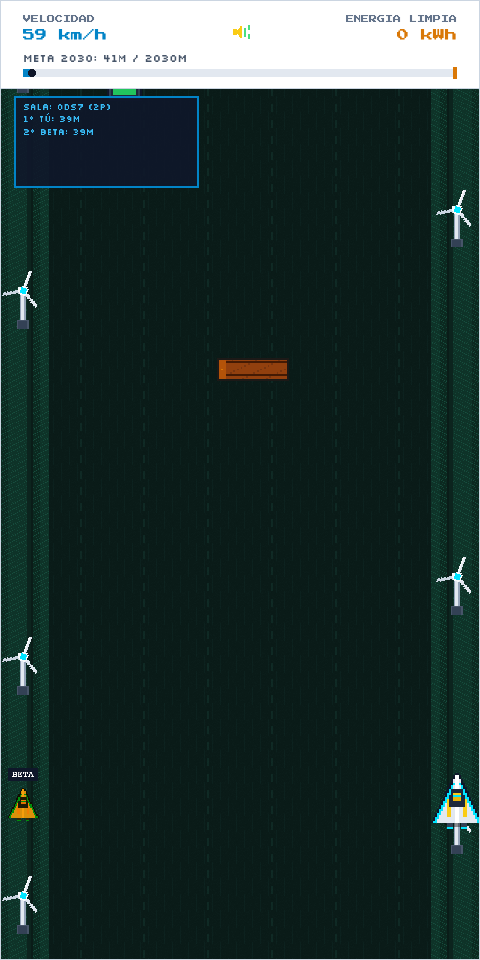
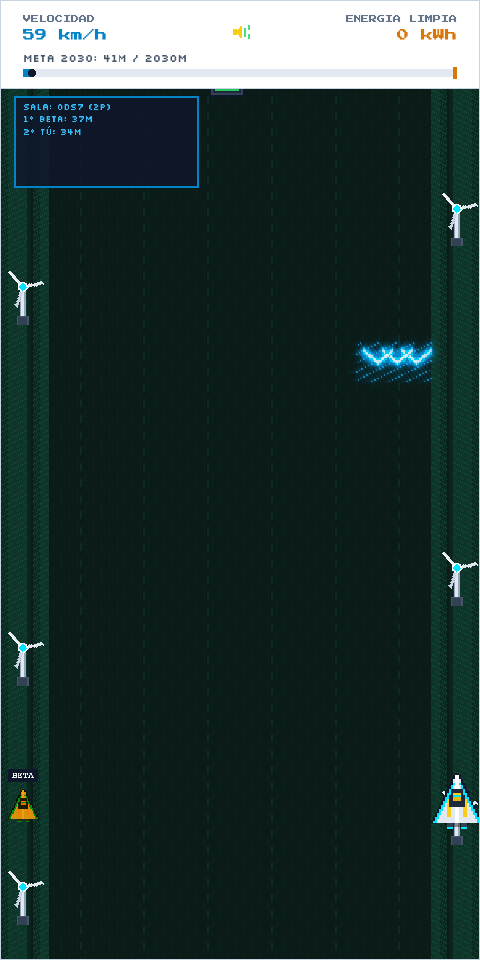
fix(lobby): update room capacity label to 50 players and handle participant list overflow

diff --git a/src/scenes/CatcherScene.ts b/src/scenes/CatcherScene.ts
@@ -14,6 +14,7 @@ export class CatcherScene extends Scene {
     private cursors!: Types.Input.Keyboard.CursorKeys;
     private keyA?: Phaser.Input.Keyboard.Key;
     private keyD?: Phaser.Input.Keyboard.Key;
+    private touchSteer: number = 0;
 
     private cleanGroup!: Phaser.Physics.Arcade.Group;
     private hazardGroup!: Phaser.Physics.Arcade.Group;
@@ -106,12 +107,28 @@ export class CatcherScene extends Scene {
             paused: this.showGuide
         });
 
-        // ── 5. Controls Input ──
+        // ── 5. Controls Input (Keyboard + Direct Touch/Click) ──
         if (this.input.keyboard) {
             this.cursors = this.input.keyboard.createCursorKeys();
             this.keyA = this.input.keyboard.addKey(Phaser.Input.Keyboard.KeyCodes.A);
             this.keyD = this.input.keyboard.addKey(Phaser.Input.Keyboard.KeyCodes.D);
         }
+
+        this.input.on('pointerdown', (pointer: Phaser.Input.Pointer) => {
+            if (!this.isGameActive) return;
+            const { width } = this.scale;
+            this.touchSteer = pointer.x < width / 2 ? -1 : 1;
+        });
+
+        this.input.on('pointermove', (pointer: Phaser.Input.Pointer) => {
+            if (!this.isGameActive || !pointer.isDown) return;
+            const { width } = this.scale;
+            this.touchSteer = pointer.x < width / 2 ? -1 : 1;
+        });
+
+        this.input.on('pointerup', () => {
+            this.touchSteer = 0;
+        });
 
         // ── 6. HUD Dashboard (Set to Depth 100 so items fall behind it) ──
         this.createHud(width);
@@ -444,8 +461,12 @@ export class CatcherScene extends Scene {
         });
 
         // Movement Controls
-        const left = (this.cursors && this.cursors.left.isDown) || (this.keyA && this.keyA.isDown) || (touch && touch.left);
-        const right = (this.cursors && this.cursors.right.isDown) || (this.keyD && this.keyD.isDown) || (touch && touch.right);
+        const activePtr = this.input.activePointer;
+        const ptrLeft = (activePtr && activePtr.isDown) && activePtr.x < width / 2;
+        const ptrRight = (activePtr && activePtr.isDown) && activePtr.x >= width / 2;
+
+        const left = (this.cursors && this.cursors.left.isDown) || (this.keyA && this.keyA.isDown) || (this.touchSteer < 0) || ptrLeft || (touch && touch.left);
+        const right = (this.cursors && this.cursors.right.isDown) || (this.keyD && this.keyD.isDown) || (this.touchSteer > 0) || ptrRight || (touch && touch.right);
 
         const moveSpeed = 380;
         if (left && this.player.x > 32) {

diff --git a/src/scenes/MainScene.ts b/src/scenes/MainScene.ts
@@ -27,6 +27,7 @@ export class MainScene extends Scene {
     private cursors?: Phaser.Types.Input.Keyboard.CursorKeys;
     private keyA?: Phaser.Input.Keyboard.Key;
     private keyD?: Phaser.Input.Keyboard.Key;
+    private touchSteer: number = 0;
 
     // Single unified circuit configuration
     private currentCircuit: SingleCircuitConfig = MAIN_CIRCUIT;
@@ -143,12 +144,28 @@ export class MainScene extends Scene {
             this
         );
 
-        // ── 4. Input ──
+        // ── 4. Input (Keyboard + Direct Touch/Click) ──
         if (this.input.keyboard) {
             this.cursors = this.input.keyboard.createCursorKeys();
             this.keyA = this.input.keyboard.addKey(Phaser.Input.Keyboard.KeyCodes.A);
             this.keyD = this.input.keyboard.addKey(Phaser.Input.Keyboard.KeyCodes.D);
         }
+
+        this.input.on('pointerdown', (pointer: Phaser.Input.Pointer) => {
+            if (!this.isRaceActive) return;
+            const { width } = this.scale;
+            this.touchSteer = pointer.x < width / 2 ? -1 : 1;
+        });
+
+        this.input.on('pointermove', (pointer: Phaser.Input.Pointer) => {
+            if (!this.isRaceActive || !pointer.isDown) return;
+            const { width } = this.scale;
+            this.touchSteer = pointer.x < width / 2 ? -1 : 1;
+        });
+
+        this.input.on('pointerup', () => {
+            this.touchSteer = 0;
+        });
 
         // ── 5. Spawner Timers ──
         this.time.addEvent({
@@ -235,9 +252,12 @@ export class MainScene extends Scene {
 
         // Player Controls
         const touch = (window as any).__touchControls;
+        const activePtr = this.input.activePointer;
+        const ptrSteer = (activePtr && activePtr.isDown) ? (activePtr.x < this.scale.width / 2 ? -1 : 1) : 0;
+
         let moveX = 0;
-        if (this.cursors?.left.isDown || this.keyA?.isDown || touch?.left) moveX = -1;
-        else if (this.cursors?.right.isDown || this.keyD?.isDown || touch?.right) moveX = 1;
+        if (this.cursors?.left.isDown || this.keyA?.isDown || this.touchSteer < 0 || ptrSteer < 0 || touch?.left) moveX = -1;
+        else if (this.cursors?.right.isDown || this.keyD?.isDown || this.touchSteer > 0 || ptrSteer > 0 || touch?.right) moveX = 1;
 
         if (moveX < 0) this.glider.steerLeft();
         else if (moveX > 0) this.glider.steerRight();

diff --git a/src/scenes/MenuScene.ts b/src/scenes/MenuScene.ts
@@ -603,7 +603,7 @@ export class MenuScene extends Scene {
         playersBoxGfx.strokeRect(cardX + 16, playersBoxY, cardW - 32, 130);
         lobbyContainer.add(playersBoxGfx);
 
-        const playersHeader = this.add.text(cardX + 28, playersBoxY + 12, `JUGADORES CONECTADOS (${networkManager.roomPlayers.length}/4)`, {
+        const playersHeader = this.add.text(cardX + 28, playersBoxY + 12, `JUGADORES CONECTADOS (${networkManager.roomPlayers.length}/50)`, {
             fontSize: '11px',
             fontFamily: "'Outfit', sans-serif",
             fontStyle: 'bold',
@@ -611,8 +611,9 @@ export class MenuScene extends Scene {
         });
         lobbyContainer.add(playersHeader);
 
-        // List players
-        networkManager.roomPlayers.forEach((p, idx) => {
+        // List up to 4 players, then show count for remaining to avoid box overflow
+        const visiblePlayers = networkManager.roomPlayers.slice(0, 4);
+        visiblePlayers.forEach((p, idx) => {
             const py = playersBoxY + 36 + idx * 22;
             const isLocal = p.id === networkManager.playerId;
             const roleTag = p.isHost ? '(ANFITRIÓN)' : '(LISTO)';
@@ -625,6 +626,17 @@ export class MenuScene extends Scene {
             });
             lobbyContainer.add(pText);
         });
+
+        if (networkManager.roomPlayers.length > 4) {
+            const extraCount = networkManager.roomPlayers.length - 4;
+            const extraText = this.add.text(cardX + 32, playersBoxY + 36 + 4 * 22, `+ ${extraCount} piloto(s) más en la sala`, {
+                fontSize: '11px',
+                fontFamily: "'Outfit', sans-serif",
+                fontStyle: 'italic',
+                color: '#64748B'
+            });
+            lobbyContainer.add(extraText);
+        }
 
         // Instructions
         const roleMsg = networkManager.isHost

diff --git a/src/main.ts b/src/main.ts
@@ -18,6 +18,10 @@ const config: Types.Core.GameConfig = {
     roundPixels: true,
     antialias: false,
     antialiasGL: false,
+    fps: {
+        target: 60,
+        forceSetTimeOut: true
+    },
     render: {
         pixelArt: true,
         antialias: false,
